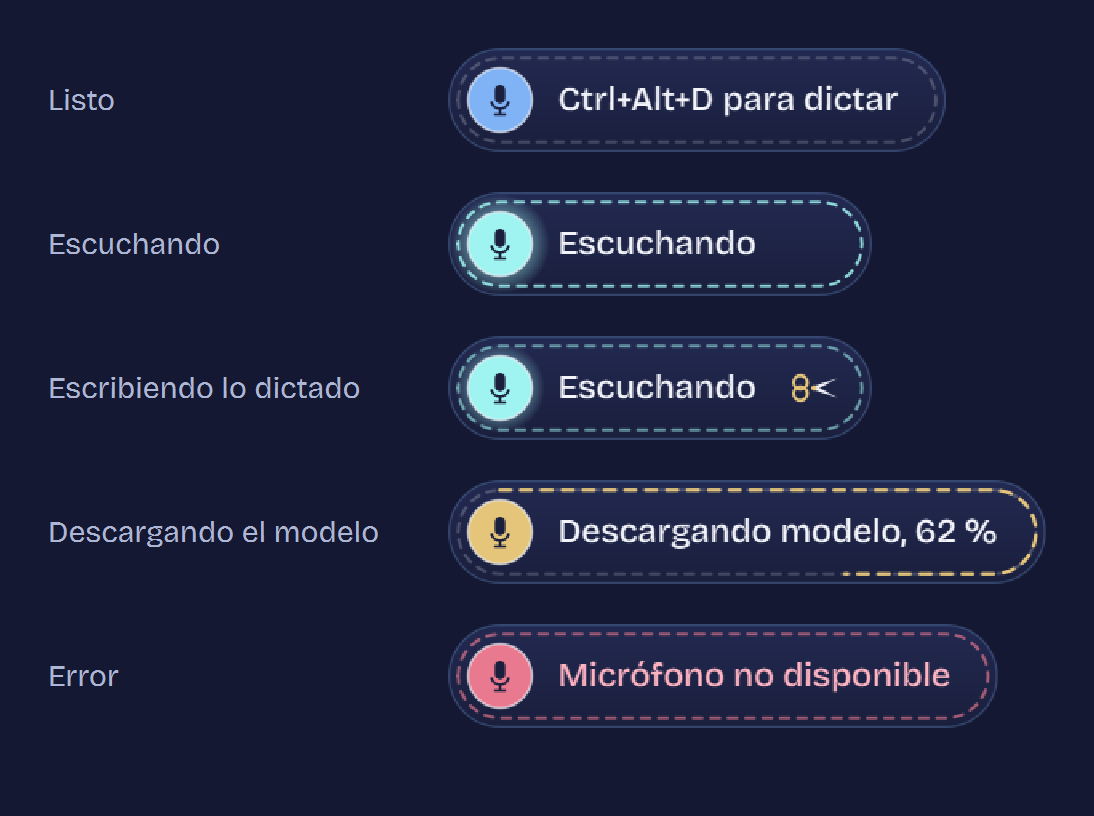
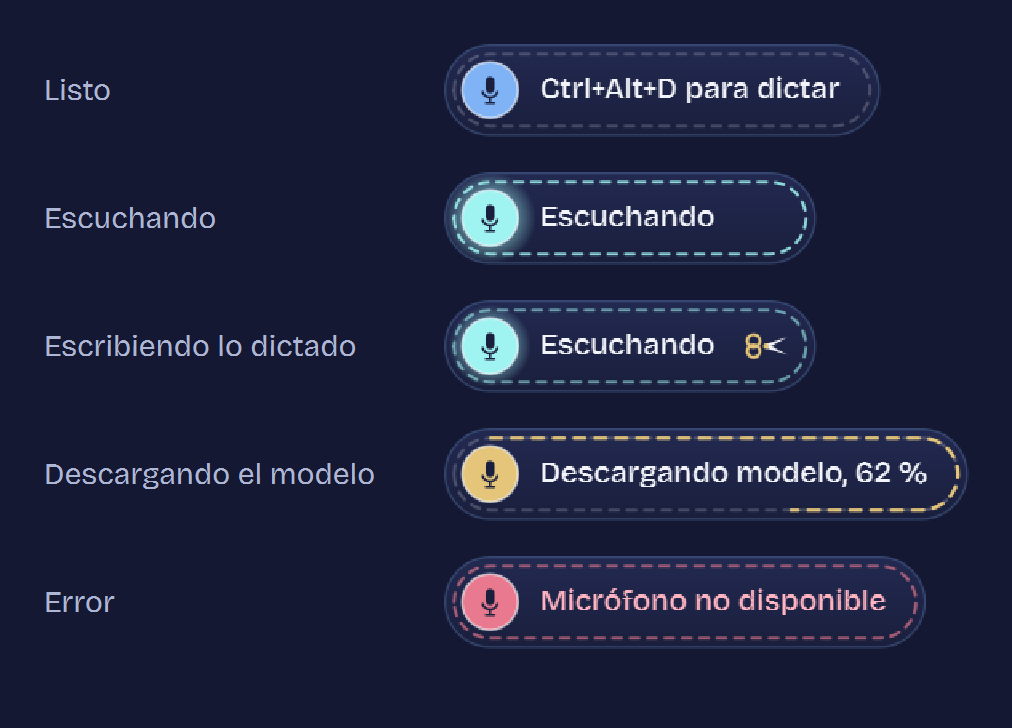
Píldora un poco más compacta (46 px)

diff --git a/src/gwensper/overlay.py b/src/gwensper/overlay.py
@@ -24,14 +24,14 @@ from . import winapi
 from .fonts import ui_font
 from .icon import GWEN_BLUE, INK_BOTTOM, INK_TOP, MIST, PORCELAIN, draw_mic
 
-HEIGHT = 52
-BUTTON = 32
+HEIGHT = 46
+BUTTON = 28
 STITCH_INSET = 5.0
 # El botón es concéntrico con el arco izquierdo de la costura: queda un margen parejo
-# de (HEIGHT/2 - STITCH_INSET) - BUTTON/2 = 5 px entre el botón y las puntadas.
+# de (HEIGHT/2 - STITCH_INSET) - BUTTON/2 = 4 px entre el botón y las puntadas.
 BUTTON_CENTER = QPointF(HEIGHT / 2, HEIGHT / 2)
-TEXT_X = HEIGHT / 2 + BUTTON / 2 + 13
-SCISSORS_W = 34
+TEXT_X = HEIGHT / 2 + BUTTON / 2 + 11
+SCISSORS_W = 30
 
 GOLD_THREAD = QColor("#E4C57A")
 RIBBON_ROSE = QColor("#E8798E")
@@ -90,7 +90,7 @@ class Overlay(QWidget):
         self.setAttribute(Qt.WA_ShowWithoutActivating)
         self.setWindowTitle("Gwensper")
         self.setCursor(Qt.PointingHandCursor)
-        self.font_ = ui_font(12.5, QFont.Medium)
+        self.font_ = ui_font(11.5, QFont.Medium)
 
         self.state = "loading"
         self.text = "Iniciando"
@@ -148,7 +148,7 @@ class Overlay(QWidget):
 
     def _relayout(self) -> None:
         tw = QFontMetrics(self.font_).horizontalAdvance(self.text)
-        self.setFixedSize(int(TEXT_X + tw + 24 + self._extra_width()), HEIGHT)
+        self.setFixedSize(int(TEXT_X + tw + 20 + self._extra_width()), HEIGHT)
 
     def _tick(self) -> None:
         if not self.animate:
@@ -242,7 +242,7 @@ class Overlay(QWidget):
         p.setPen(QPen(_with_alpha(PORCELAIN, 170), 1.2))
         p.setBrush(color)
         p.drawEllipse(c)
-        draw_mic(p, c.adjusted(8.5, 7, -8.5, -7), INK_BOTTOM)
+        draw_mic(p, c.adjusted(7.5, 6, -7.5, -6), INK_BOTTOM)
 
         if self.state == "loading" and self.progress < 0:
             spin = QPen(GOLD_THREAD, 2, Qt.SolidLine, Qt.RoundCap)
@@ -273,8 +273,8 @@ class Overlay(QWidget):
 
         if self.state == "listening" and self.busy:
             snip = abs(math.sin(self._phase * 1.6)) if self.animate else 0.6
-            center = QPointF(self.width() - SCISSORS_W / 2 - 12, HEIGHT / 2)
-            draw_scissors(p, center, 23, 6 + 22 * snip, GOLD_THREAD)
+            center = QPointF(self.width() - SCISSORS_W / 2 - 10, HEIGHT / 2)
+            draw_scissors(p, center, 21, 6 + 22 * snip, GOLD_THREAD)
         p.end()
 
     # ---------- interacción ----------

diff --git a/scripts/preview_overlay.py b/scripts/preview_overlay.py
@@ -34,7 +34,7 @@ def main(out: Path) -> None:
         ("Error", lambda o: o.set_state("error", "Micrófono no disponible")),
     ]
     shots = [(label, snap(fn)) for label, fn in states]
-    row_h, label_w, pad = 72, 200, 24
+    row_h, label_w, pad = 64, 200, 22
     width = label_w + max(int(s.width() / s.devicePixelRatio()) for _, s in shots) + pad * 2
     height = row_h * len(shots) + pad * 2
     out_pm = QPixmap(width * 2, height * 2)
@@ -46,7 +46,7 @@ def main(out: Path) -> None:
     for i, (label, shot) in enumerate(shots):
         y = pad + i * row_h
         p.setPen(QColor("#AEB6D6"))
-        p.drawText(QPointF(pad, y + 31), label)
+        p.drawText(QPointF(pad, y + 28), label)
         p.drawPixmap(pad + label_w, y, shot)
     p.end()
     out.parent.mkdir(parents=True, exist_ok=True)
